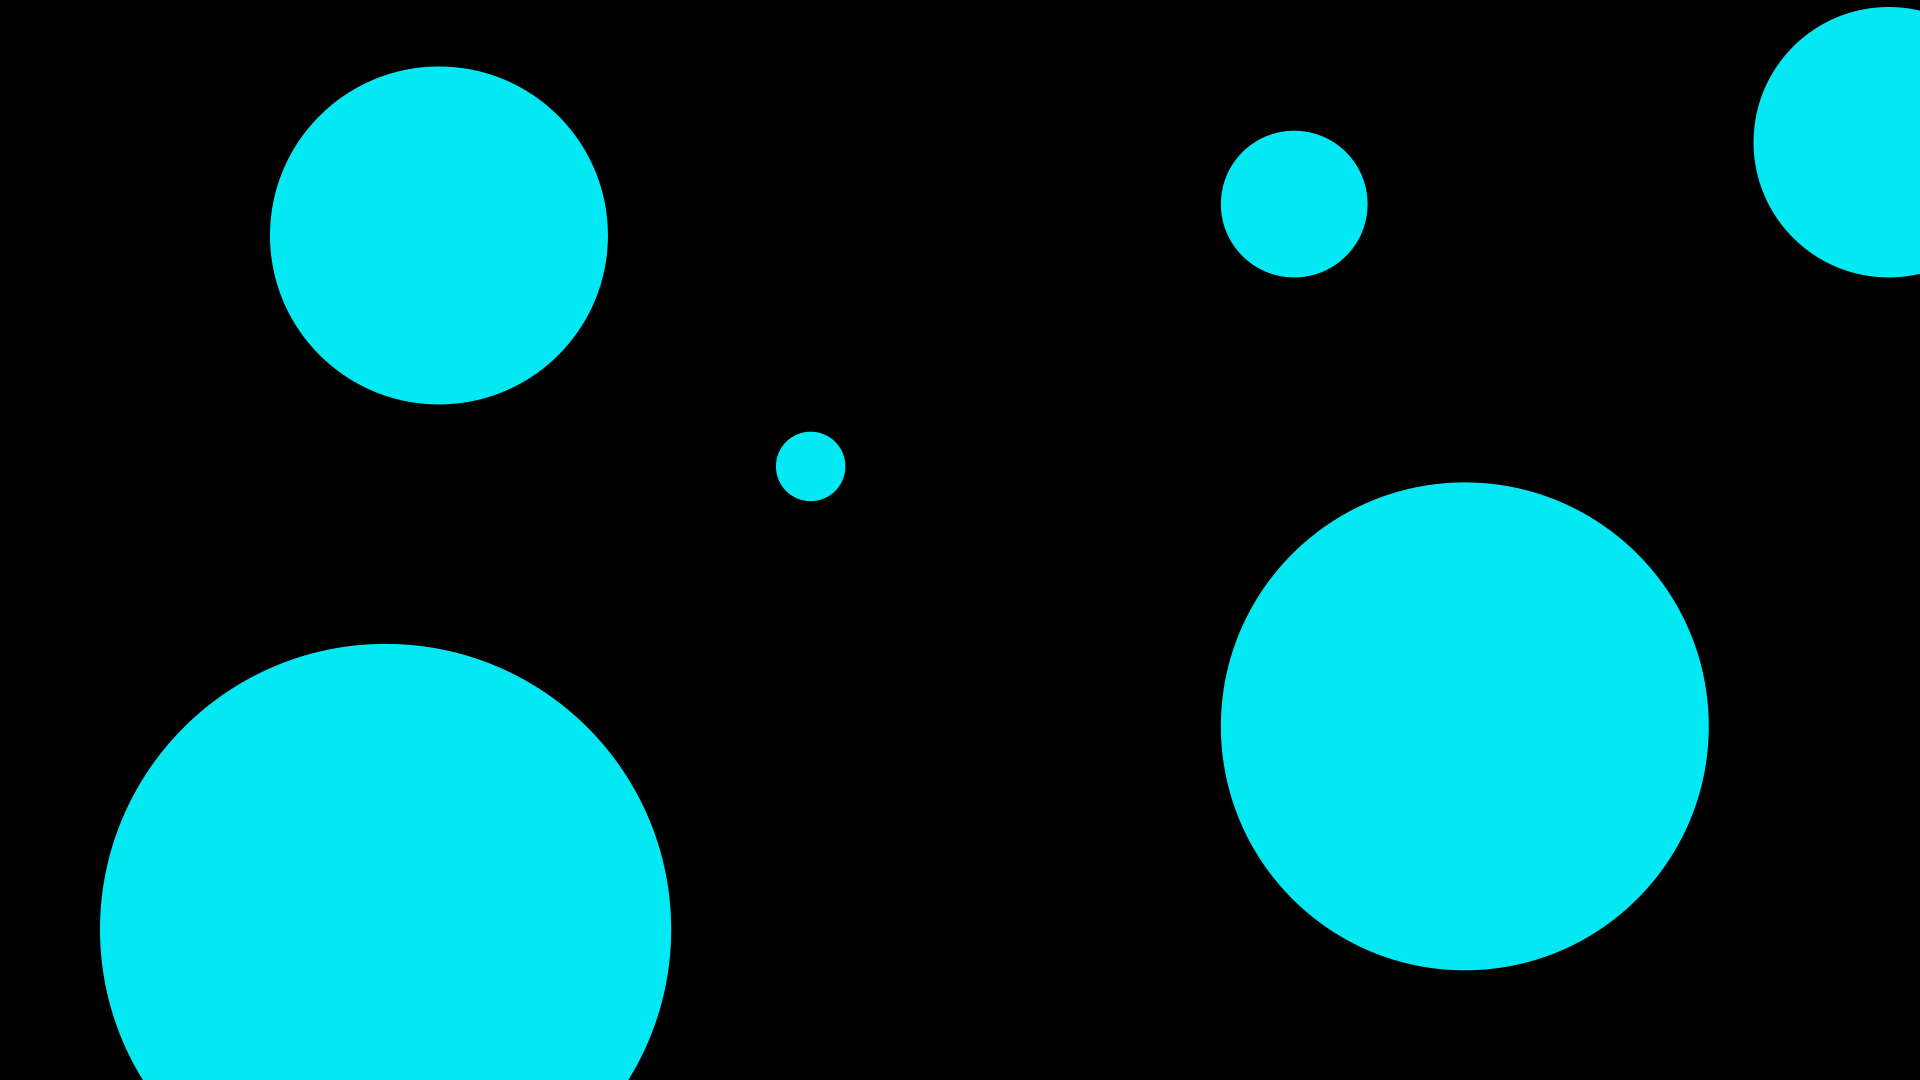
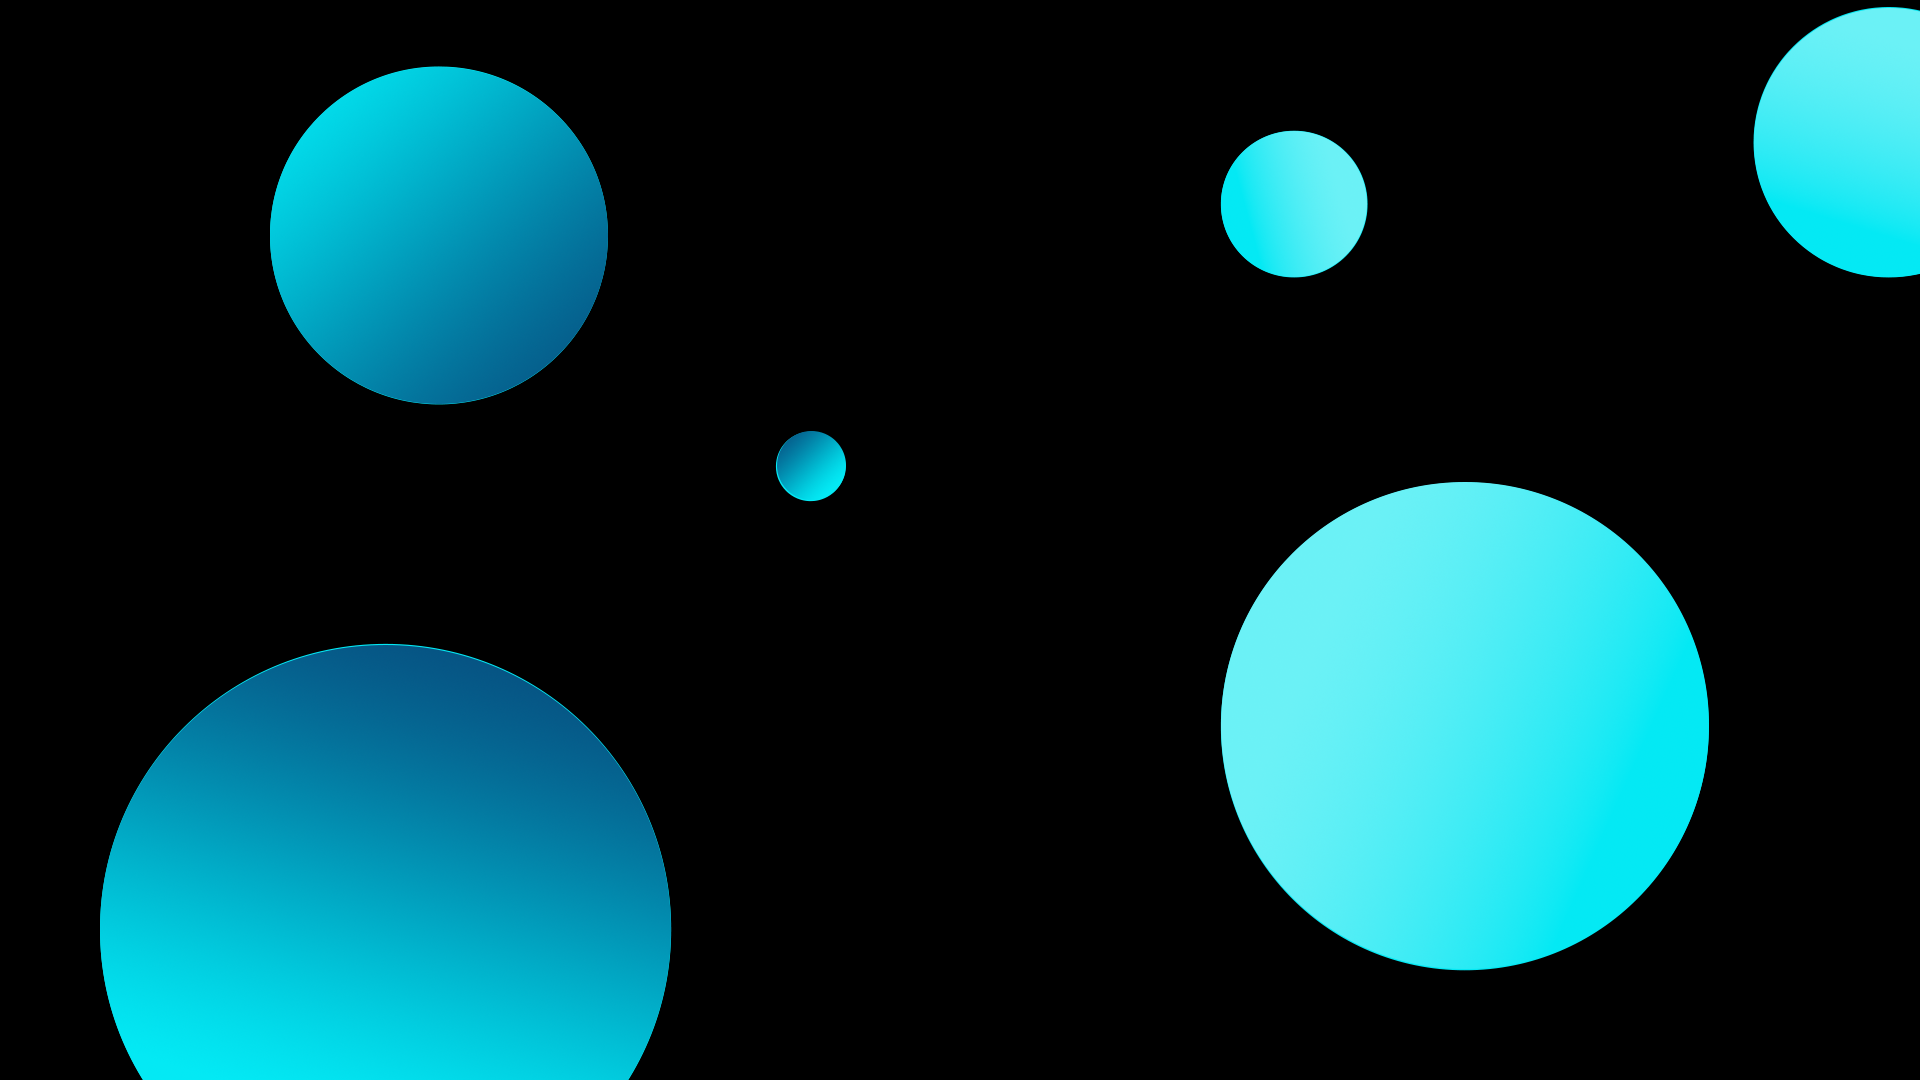
upd: change the linear gradient color and add border to cards, change the background

diff --git a/public/assets/css/card.css b/public/assets/css/card.css
@@ -5,10 +5,11 @@
     align-items: center;
     width: 400px;
     height: 650px;
+    border: 1px solid rgba( 255, 255, 255, 0.18 );
     border-radius: 15px;
     background-color: rgb(0, 0, 0, 0.5);    
-    background-image:linear-gradient(to top left, rgba(71, 71, 71, 0.5), rgba(71,71,71,0.5));
-    backdrop-filter: blur(10px); 
+    background-image:linear-gradient(to top left, rgba(71, 71, 71, 0.5), rgba(124, 124, 124, 0.5));
+    backdrop-filter: blur(10px);
 }
 
 .card .card_desc{
